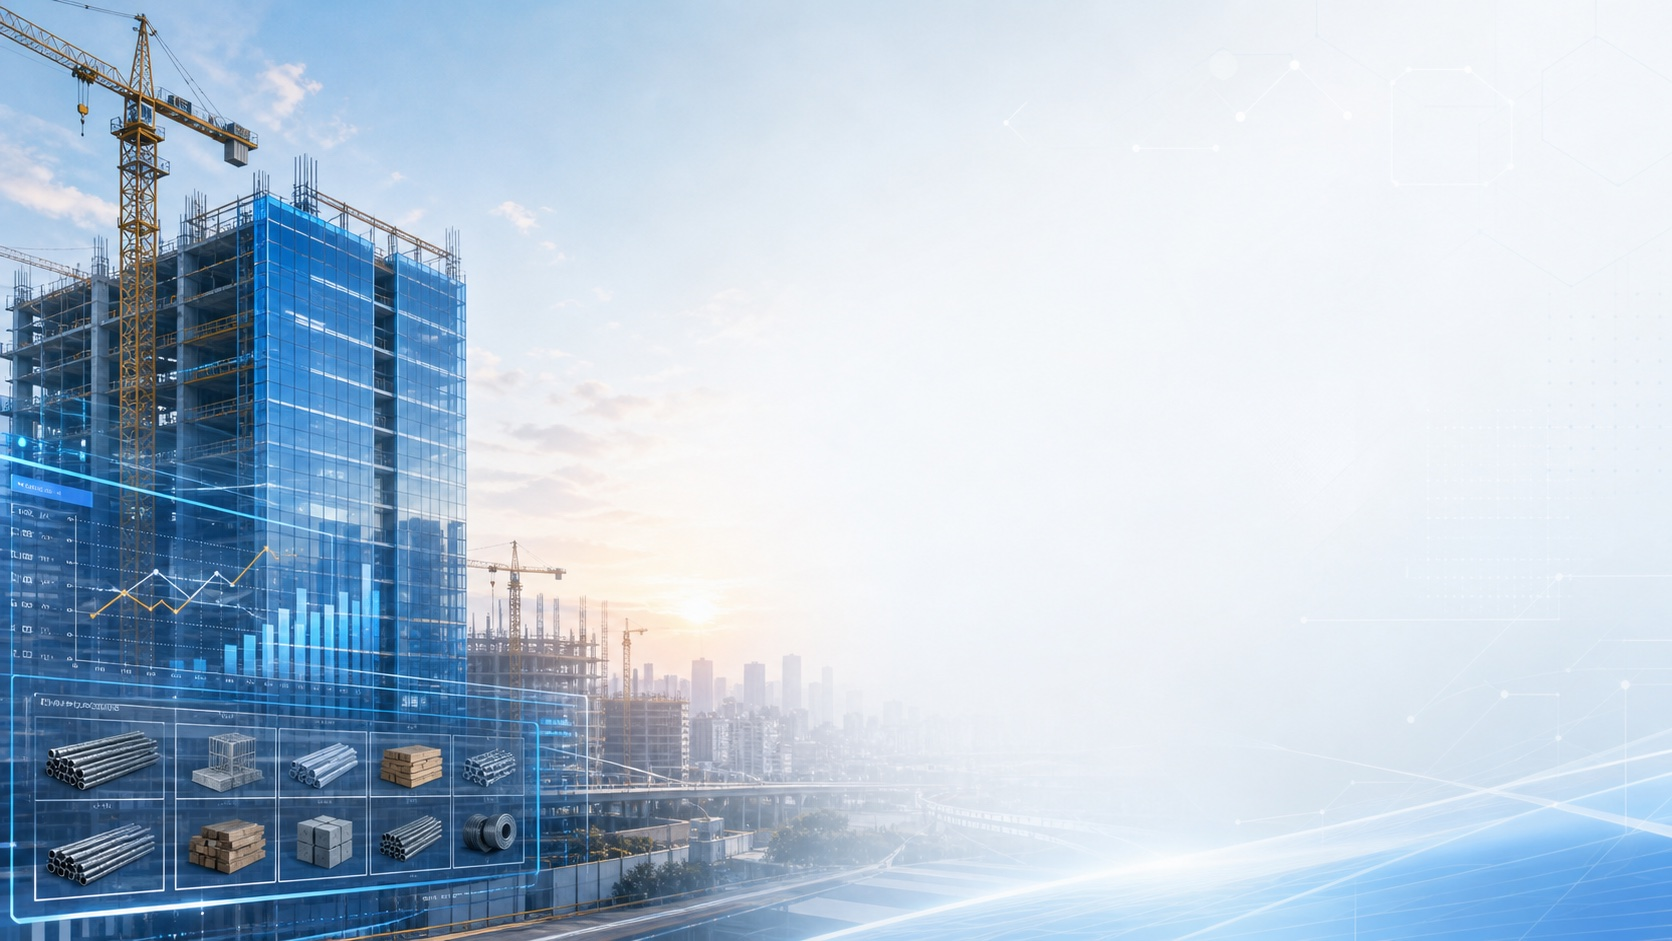
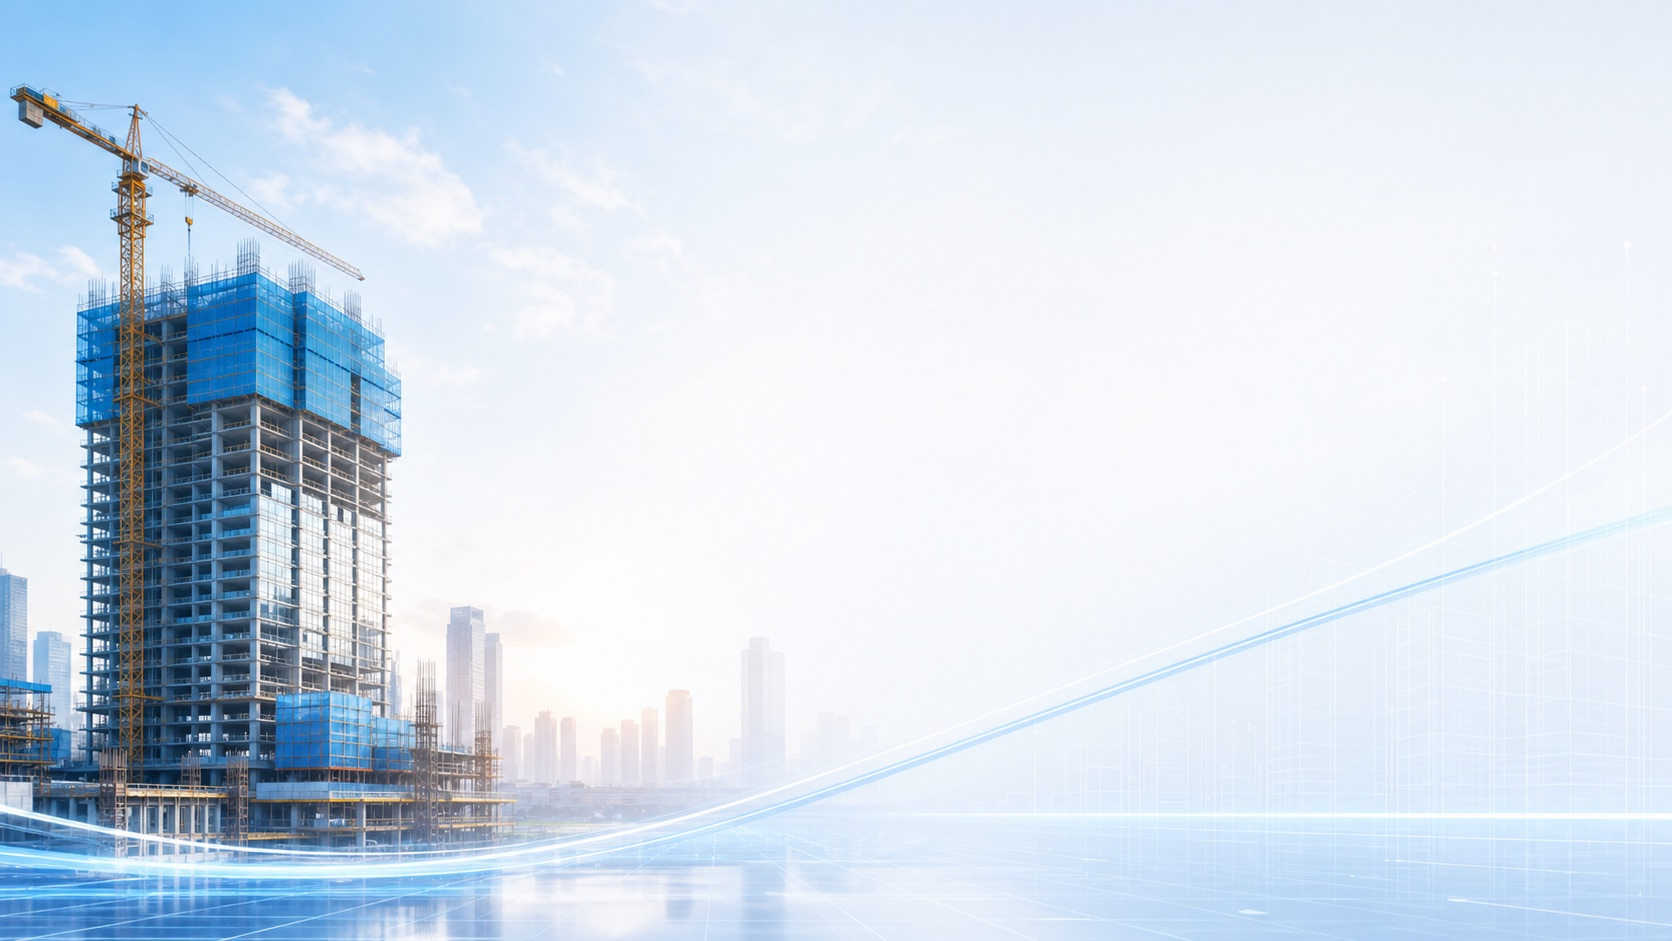
优化登录页背景与居中布局

diff --git a/components/Login/Login.tsx b/components/Login/Login.tsx
@@ -38,11 +38,8 @@ const Login: React.FC<LoginProps> = ({ onSuccess }) => {
         style={{ backgroundImage: "url('/images/hongshuo-login-bg.jpg')" }}
         aria-hidden="true"
       />
-      <div
-        className="absolute inset-0 bg-[linear-gradient(90deg,rgba(239,246,255,0.22),rgba(248,250,252,0.7)_48%,rgba(248,250,252,0.9))]"
-        aria-hidden="true"
-      />
-      <div className="relative flex min-h-[calc(100vh-2rem)] items-center justify-center lg:justify-end lg:pr-[12vw]">
+      <div className="absolute inset-0 bg-white/10" aria-hidden="true" />
+      <div className="relative flex min-h-[calc(100vh-2rem)] items-center justify-center">
         <div className="w-full max-w-md rounded-3xl border border-white/70 bg-white/95 p-8 shadow-2xl shadow-slate-900/15 backdrop-blur">
           <div className="flex items-center justify-center gap-2 mb-8">
             <img src="/images/hongshuo-logo.png" alt="" className="h-9 w-9 rounded-xl object-cover" />